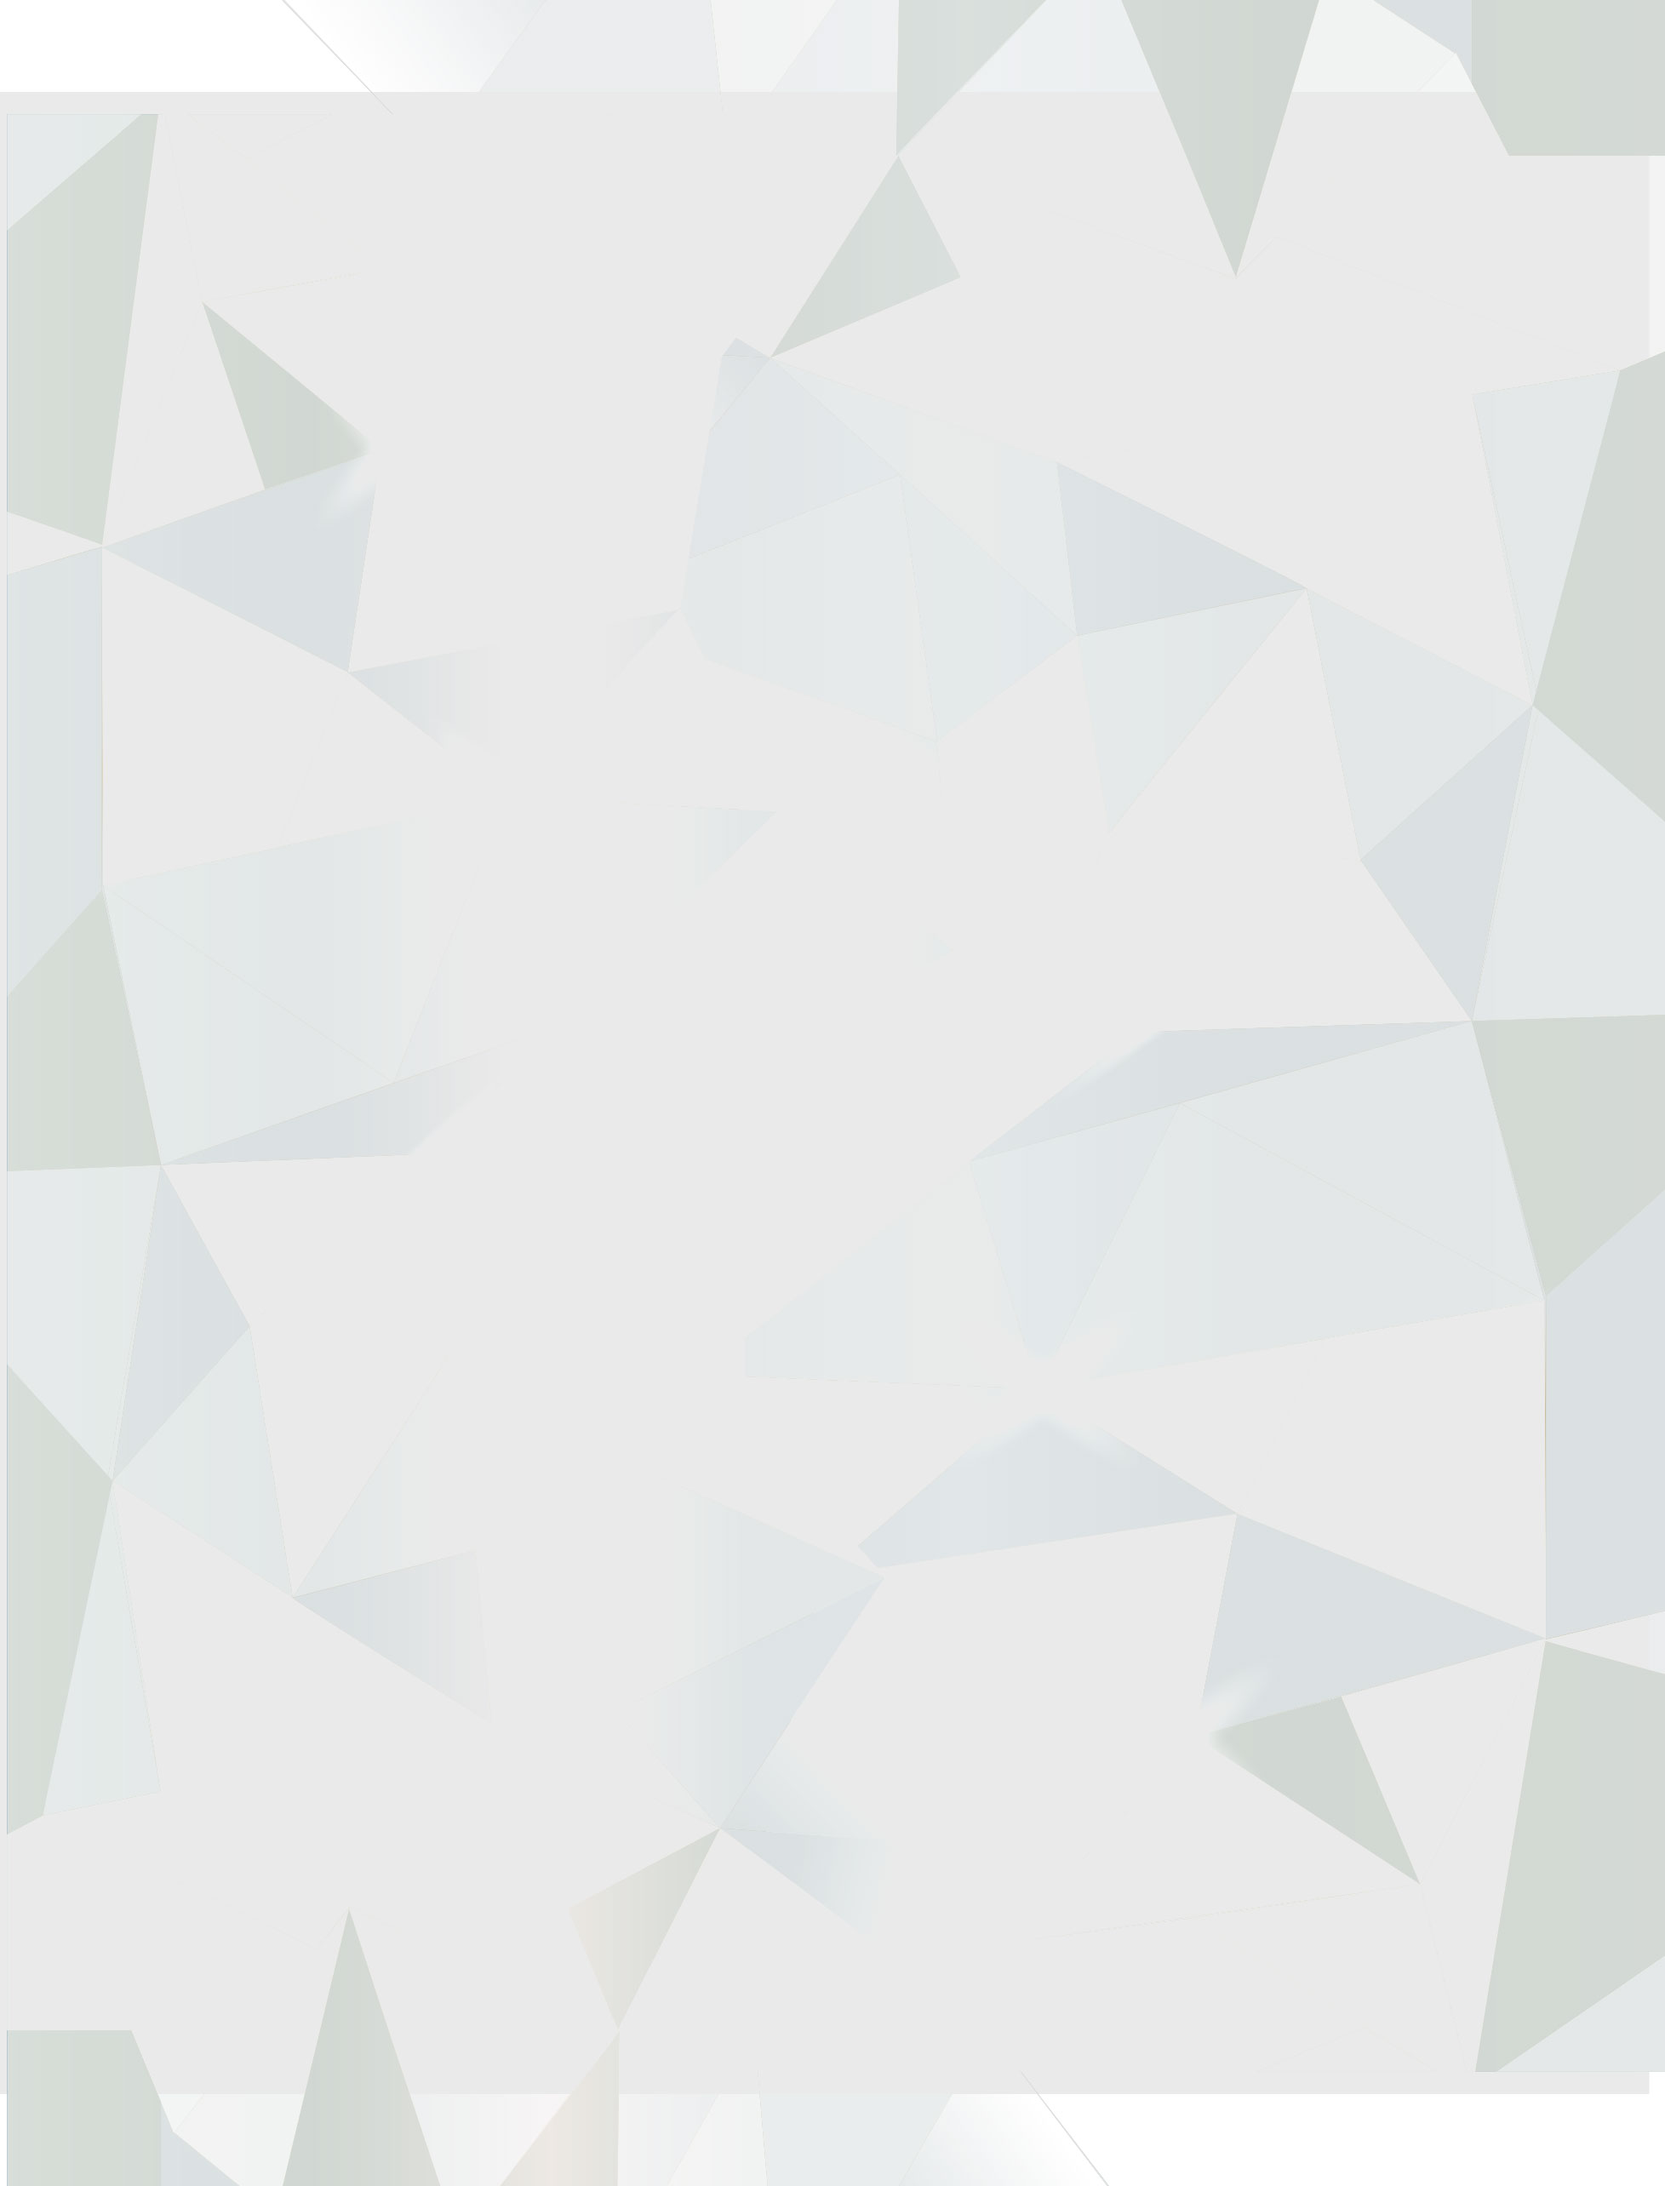
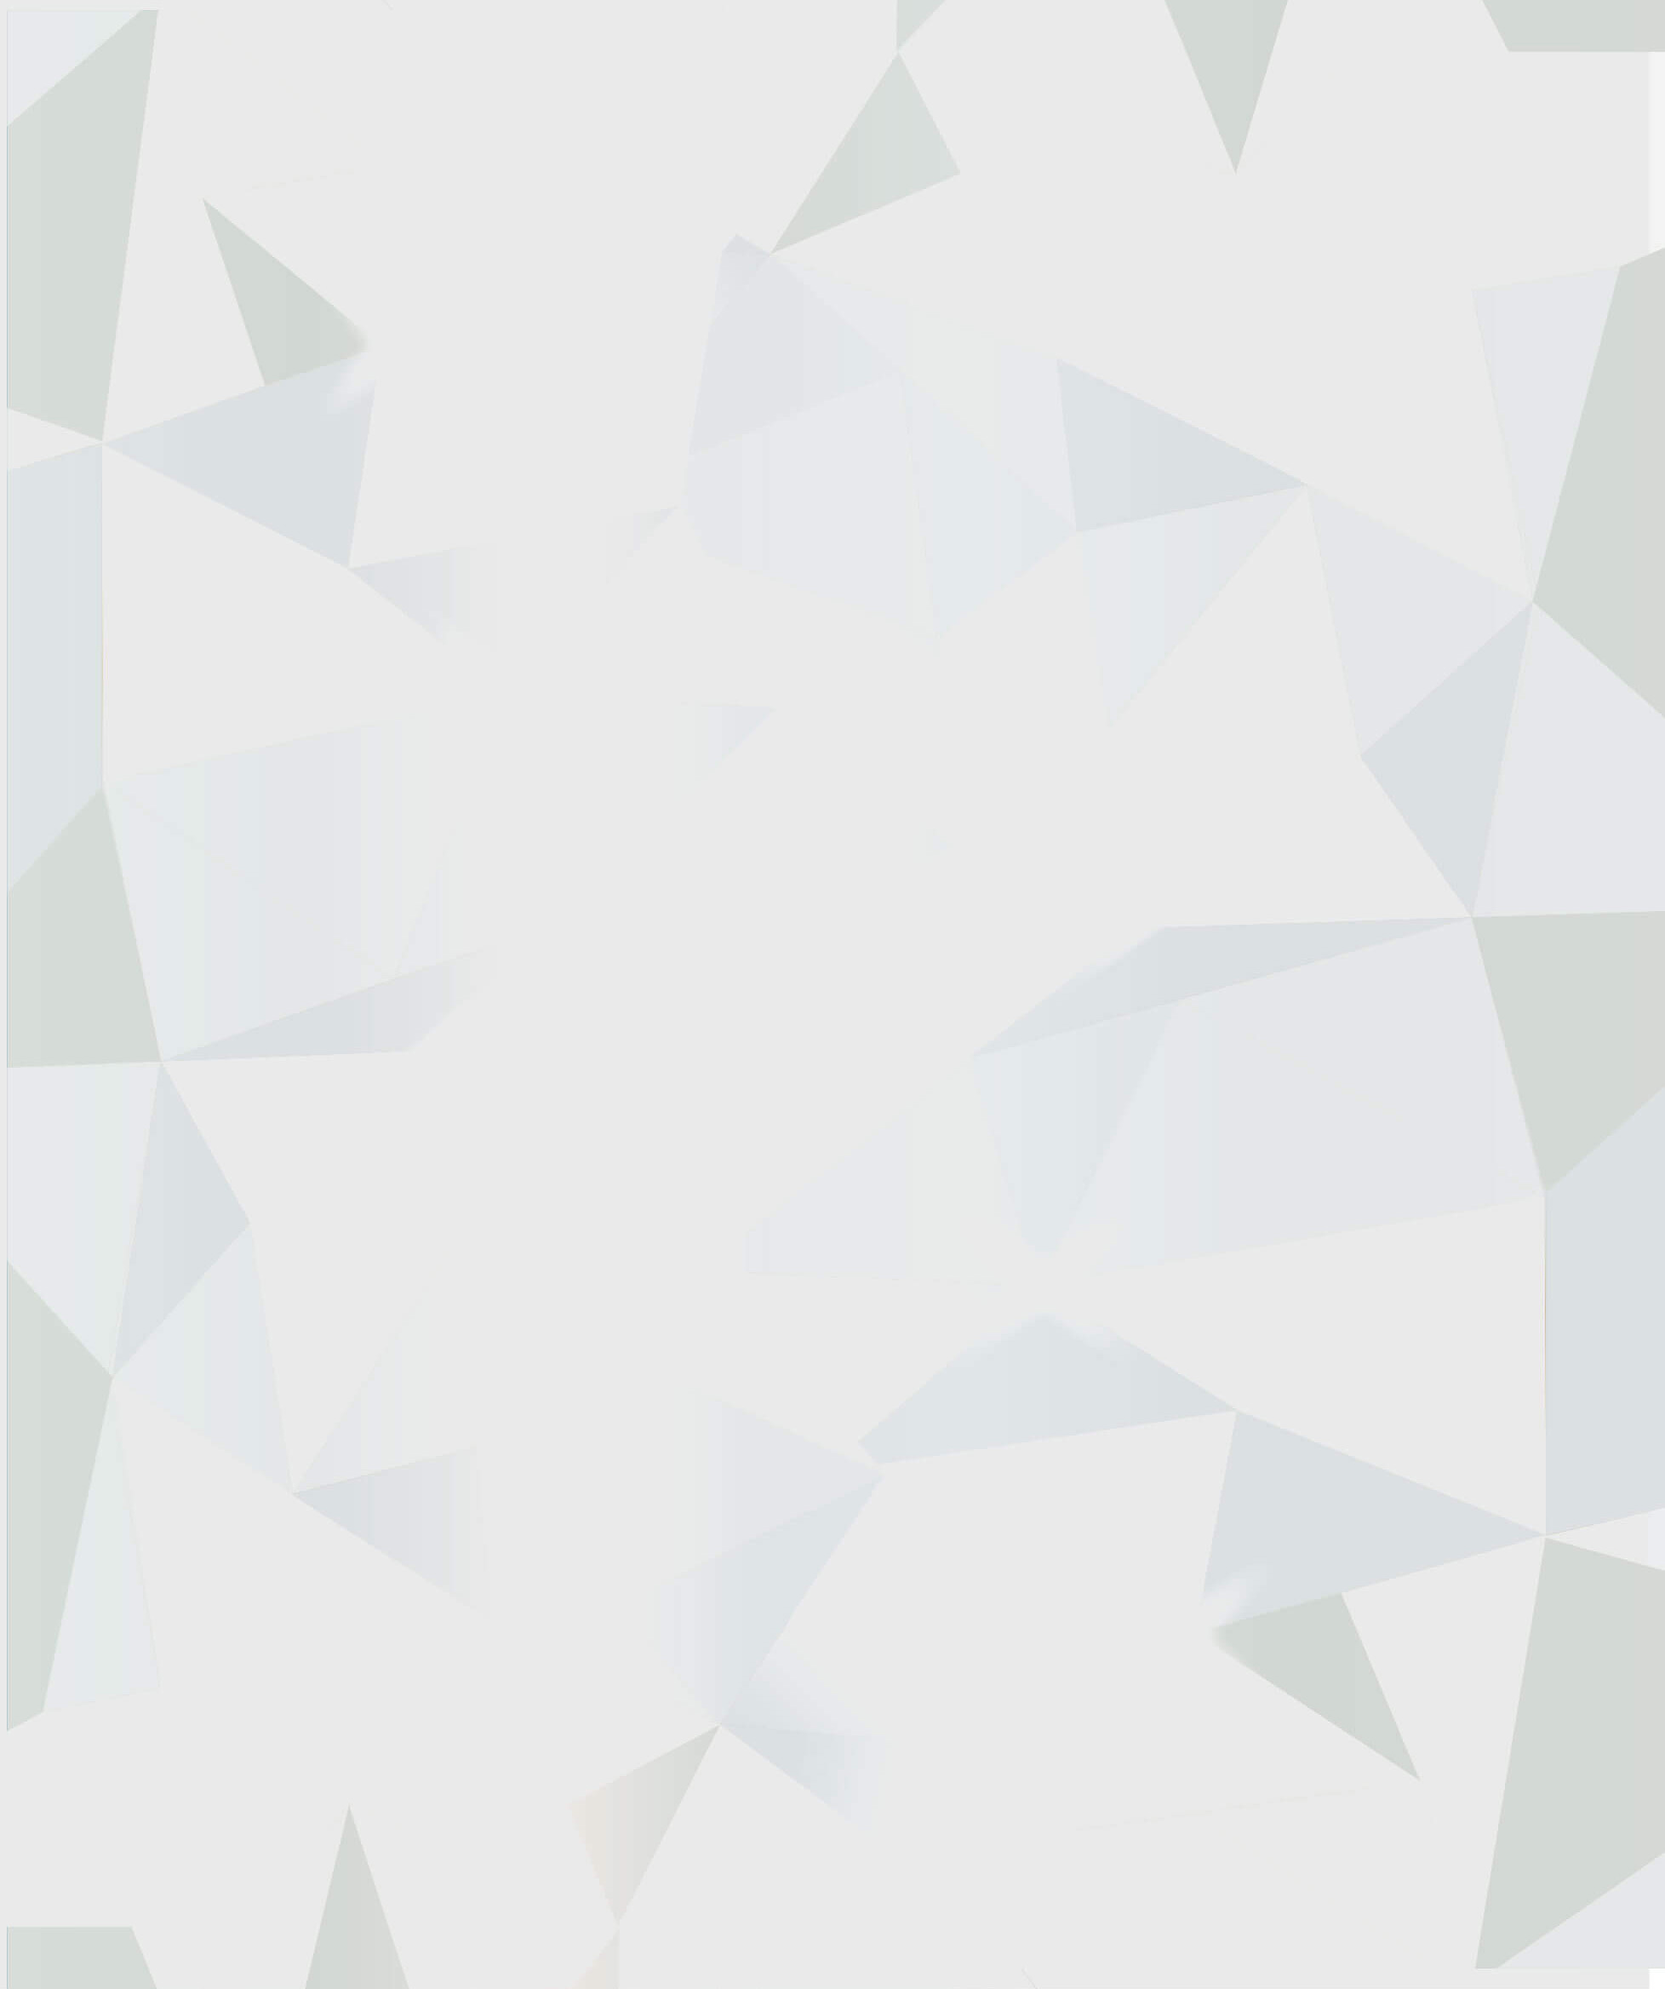
ajuste CSS media-queries

diff --git a/templates/amor.html b/templates/amor.html
@@ -28,7 +28,7 @@
       <!--Buzon-->
       <article class="col-lg-8 col-md-8 col-sm-8 col-xs-12"><img src="images/buzon-base.png" width="700" class="img-responsive"></article>
     </div>
-    <div class="logo"><a href="index.php"><img src="images/logo-dispensador.png" alt="Dispensador de amor y amistad" title="Dispensador de amor y amistad" width="300" class="img-responsive center-block"></a></div>
+    <div class="logo"><a href="index.php#done"><img src="images/logo-dispensador.png" alt="Dispensador de amor y amistad" title="Dispensador de amor y amistad" width="300" class="img-responsive center-block"></a></div>
   </header>
   <!--/-Header-->
   <section class="container-fluid">
@@ -39,7 +39,6 @@
           <textarea placeholder="Escribe un mensaje" class="form-control"></textarea>
           <div class="postear">
             <p>Compartir en: 
-              <button href="" data-share="fb" type="button" class="fa fa-facebook"></button>
               <button href="" data-share="tw" type="button" class="fa fa-twitter"></button>
             </p>
           </div>
@@ -47,12 +46,8 @@
         <p class="text-center">Estos son los mensajes de AMOR que nos han compartido.</p>
       </article>
     </div>
-    <div class="row">
-
-      {#foreach from=$tweets item=tweet#}
-
-      
-      <article class="col-lg-6 col-md-6 col-md-6 col-sm-6 col-xs-12 box box-amor">
+    <div class="row">{#foreach from=$tweets item=tweet#}
+      <article class="col-lg-6 col-md-6 col-md-6 col-sm-6 col-xs-12 box box-amistad">
         <div class="single">
           <div class="img-tweet"><img src="" alt="" class="img-tweet img-responsive"></div>
           <div class="img-producto"><img src="images/deditos.png" width="80" class="img-responsive"></div>
@@ -61,12 +56,11 @@
             {#$tweet->tweet#}
             
           </p>
-          <div class="barra-nombre"><img src="{#$tweet->avatar#}" width="50" class="perfil img-circle img-responsive">
+          <div class="barra-nombre"><img src="{#$tweet-&gt;avatar#}" width="50" class="perfil img-circle img-responsive">
             <p class="nombre-perfil">{#$tweet->nombreUsuario#} | @{#$tweet->arroba#}</p>
           </div>
         </div>
-      </article>
-      {#/foreach#}
+      </article>{#/foreach#}
     </div>
   </section>
   <!--Footer-->

diff --git a/templates/amistad.html b/templates/amistad.html
@@ -28,7 +28,7 @@
       <!--Buzon-->
       <article class="col-lg-8 col-md-8 col-sm-8 col-xs-12"><img src="images/buzon-base.png" width="700" class="img-responsive"></article>
     </div>
-    <div class="logo"><a href="index.php"><img src="images/logo-dispensador.png" alt="Dispensador de amor y amistad" title="Dispensador de amor y amistad" width="300" class="img-responsive center-block"></a></div>
+    <div class="logo"><a href="index.php#done"><img src="images/logo-dispensador.png" alt="Dispensador de amor y amistad" title="Dispensador de amor y amistad" width="300" class="img-responsive center-block"></a></div>
   </header>
   <!--/-Header-->
   <section class="container-fluid">
@@ -39,7 +39,6 @@
           <textarea placeholder="Escribe un mensaje" class="form-control"></textarea>
           <div class="postear">
             <p>Compartir en: 
-              <button href="" data-share="fb" type="button" class="fa fa-facebook"></button>
               <button href="" data-share="tw" type="button" class="fa fa-twitter"></button>
             </p>
           </div>
@@ -47,10 +46,7 @@
         <p class="text-center">Estos son los mensajes de AMISTAD que nos han compartido.</p>
       </article>
     </div>
-    <div class="row">
-      {#foreach from=$tweets item=tweet#}
-      
-      
+    <div class="row">{#foreach from=$tweets item=tweet#}
       <article class="col-lg-6 col-md-6 col-md-6 col-sm-6 col-xs-12 box box-amistad">
         <div class="single">
           <div class="img-tweet"><img src="" alt="" class="img-tweet img-responsive"></div>
@@ -60,12 +56,11 @@
             {#$tweet->tweet#}
             
           </p>
-          <div class="barra-nombre"><img src="{#$tweet->avatar#}" width="50" class="perfil img-circle img-responsive">
+          <div class="barra-nombre"><img src="{#$tweet-&gt;avatar#}" width="50" class="perfil img-circle img-responsive">
             <p class="nombre-perfil">{#$tweet->nombreUsuario#} | @{#$tweet->arroba#}</p>
           </div>
         </div>
-      </article>
-      {#/foreach#}
+      </article>{#/foreach#}
     </div>
   </section>
   <!--Footer-->

diff --git a/templates/index.html b/templates/index.html
@@ -28,7 +28,7 @@
       <!--Buzon-->
       <article class="col-lg-8 col-md-8 col-sm-8 col-xs-12"><img src="images/buzon-base.png" width="700" class="img-responsive"></article>
     </div>
-    <div class="logo"><a href="index.php"><img src="images/logo-dispensador.png" alt="Dispensador de amor y amistad" title="Dispensador de amor y amistad" width="300" class="img-responsive center-block"></a></div>
+    <div class="logo"><a href="index.php#done"><img src="images/logo-dispensador.png" alt="Dispensador de amor y amistad" title="Dispensador de amor y amistad" width="300" class="img-responsive center-block"></a></div>
   </header>
   <!--/-Header-->
   <section class="container-fluid">
@@ -81,6 +81,19 @@
       
     </div>
   </section>
+  <!--Modal Promo-->
+  <div id="myModal" tabindex="-1" role="dialog" aria-labelledby="myModalLabel" aria-hidden="true" class="modal fade bs-example-modal-lg">
+    <div class="modal-dialog modal-lg">
+      <div class="modal-content">
+        <div class="modal-header">
+          <button type="button" data-dismiss="modal" aria-label="Close" class="close"><span aria-hidden="true">&times;</span></button>
+        </div>
+        <div class="modal-body"><img src="images/promo.jpg" alt="En septiembre podremos llenar el mundo de amor &amp; amistad" title="En septiembre podremos llenar el mundo de amor &amp; amistad" class="img-responsive"></div>
+      </div>
+    </div>
+  </div>
+  <!--/-Modal Promo-->
+  
   <!--Footer-->
   <footer class="container-fluid">
     <div class="row">

diff --git a/css/style.css b/css/style.css
@@ -7,7 +7,7 @@ a {
 body {
   background-image: url("../images/bg-triangulos.jpg");
   background-position: top center;
-  background-repeat: no-repeat;
+  background-repeat: repeat;
   color: #757575;
   font-family: 'Droid Sans', sans-serif;
   font-size: 1.3em;
@@ -242,6 +242,7 @@ footer a {
 }
 .box .tweet {
   padding: 1em;
+  max-height: 4.7em;
 }
 .postear {
   background-color: #4d4d4d;
@@ -290,6 +291,37 @@ footer a {
 }
 .postear .fa-twitter:hover {
   background-color: #1195c1;
+}
+.modal-content {
+  background-color: transparent;
+  -webkit-box-shadow: none;
+  box-shadow: none;
+  border: none;
+}
+.modal-header {
+  border: 0;
+  min-height: auto;
+  padding: 0;
+}
+.modal-header .close {
+  position: absolute;
+  top: 0.5em;
+  right: 0.5em;
+  background-color: #be272d;
+  -webkit-border-radius: 100%;
+  border-radius: 100%;
+  float: none;
+  font-size: 1.3em;
+  height: 1.5em;
+  opacity: 0.99;
+  -ms-filter: "progid:DXImageTransform.Microsoft.Alpha(Opacity=99)";
+  filter: alpha(opacity=99);
+  width: 1.5em;
+  z-index: 10;
+}
+.modal img {
+  -webkit-box-shadow: 0px 0px 5px 5px rgba(0,0,0,0.25);
+  box-shadow: 0px 0px 5px 5px rgba(0,0,0,0.25);
 }
 .u-no-border {
   padding: 0;

diff --git a/js/dispensador.js b/js/dispensador.js
@@ -1,4 +1,27 @@
 
+var screenWidth = jQuery(window).width();
+var pos = window.location.hash;
+
+//Carga de modal promoción
+jQuery(document).on("ready", function () {
+
+
+	if (  screenWidth >= 800 && pos != "#done" ) {
+
+		jQuery('#myModal').modal('show');
+
+		jQuery("#myModal").on("hide.bs.modal", function (e) {
+			
+			window.location.hash = "#done";
+
+		});
+
+
+	};
+
+});
+
+
 /*Boton para ver mecanica*/
 jQuery(document).on("click", ".btn-aqui", function () {
 	
